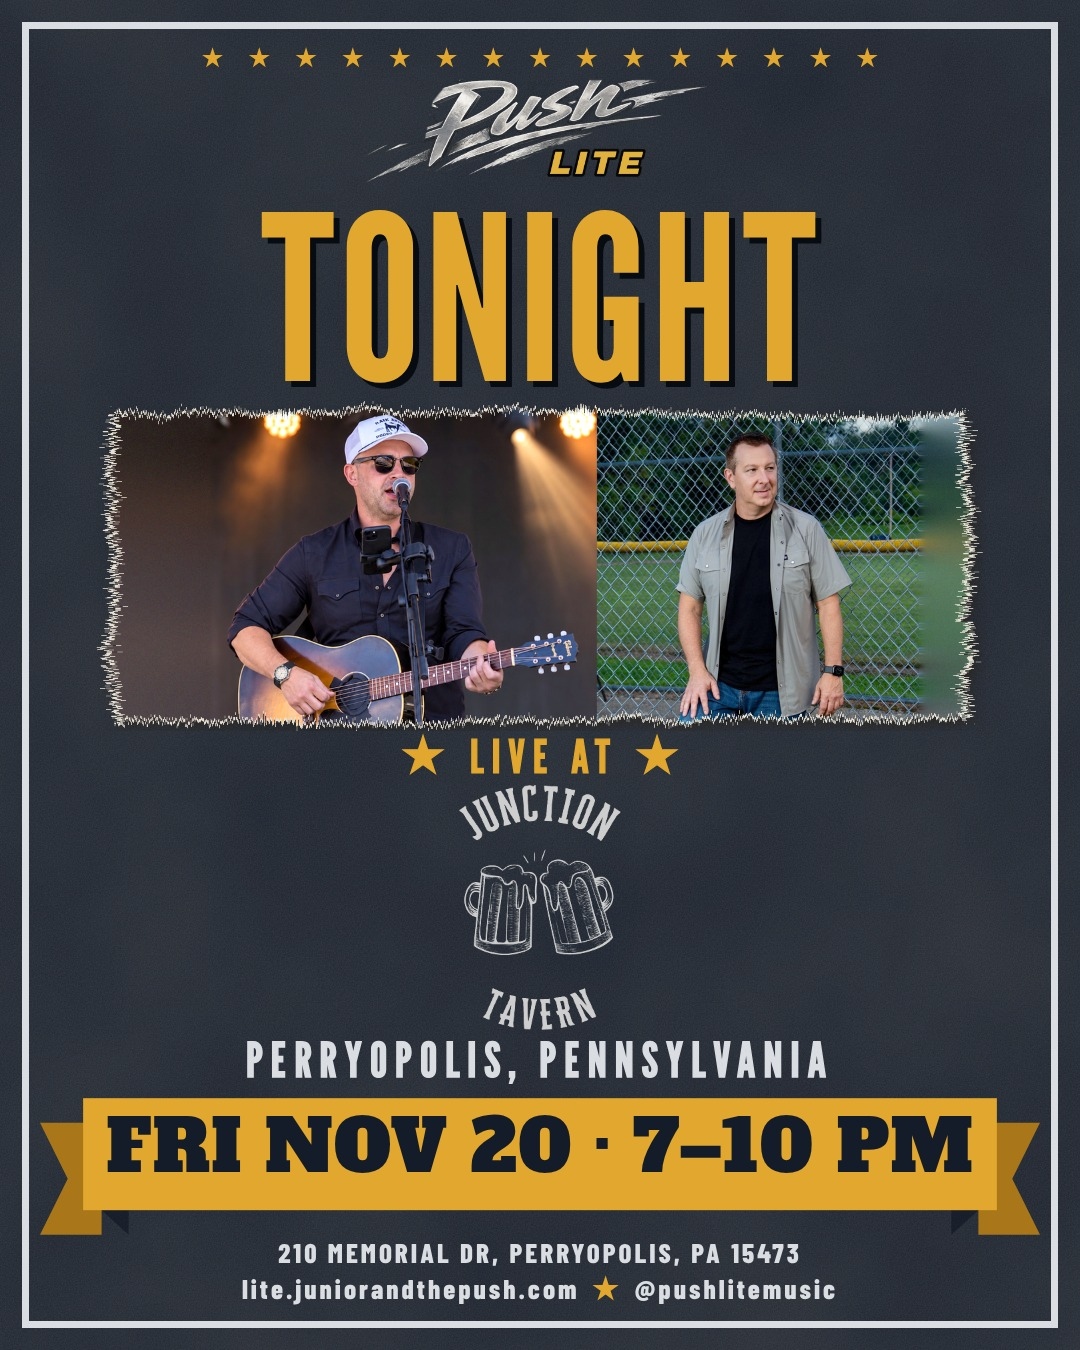
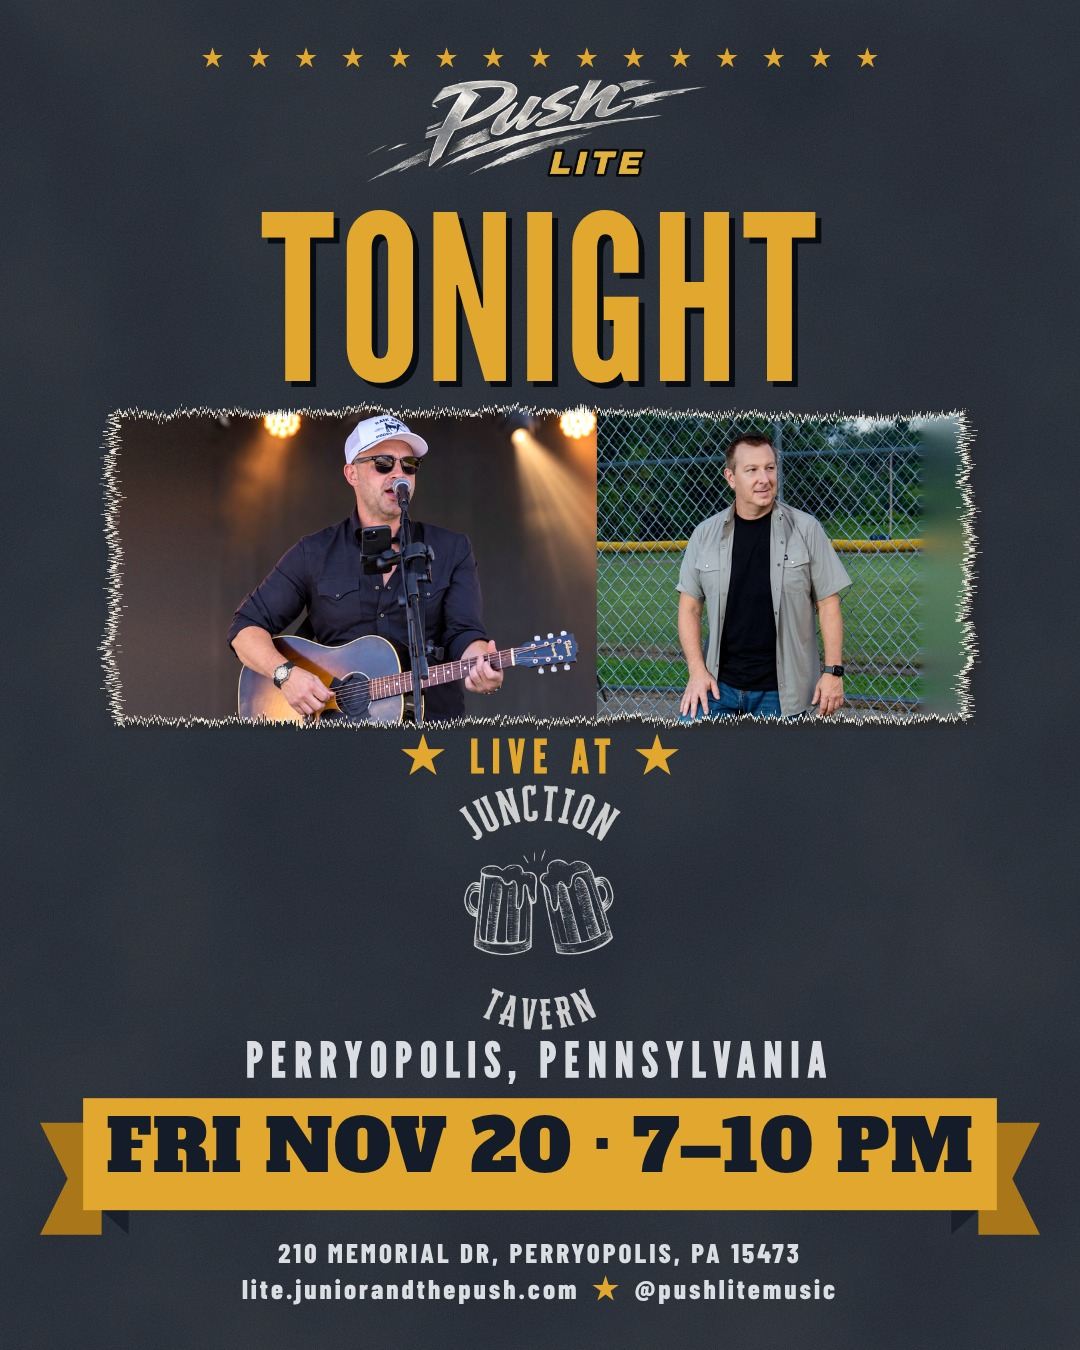
Push Lite posters: no border
Claude-Session: https://claude.ai/code/session_015uHhmCsPoAdDiTAzBBZv4C

Changed region(s): [[0.0, 0.0, 0.9778, 0.9956]]

diff --git a/kit/bold.py b/kit/bold.py
@@ -143,7 +143,7 @@ body{{width:{W}px;height:{H}px;background:{a.get('paper', PAPER)};position:relat
 .foot2 b{{color:{a['hot']};margin:0 12px}}
 </style></head><body>
 <div class='paper1'></div><div class='paper2'></div>{'' if dark else distress(photo)}
-<div class='frame'></div>
+{'' if dark else "<div class='frame'></div>"}
 <div class='wrap'>
   <div class='stars'>{stars}</div>
   <img class='logo' src='{uri(a['logo'])}'>
